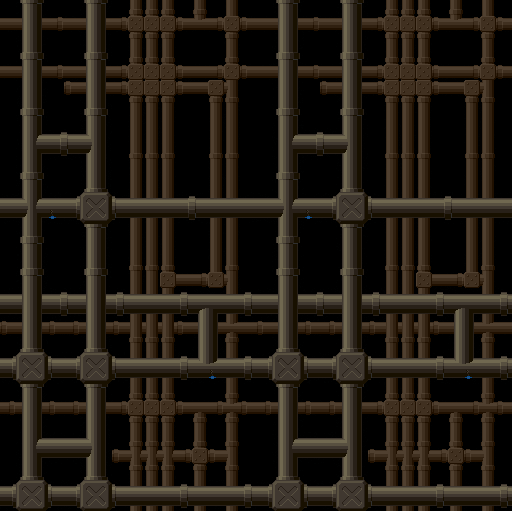
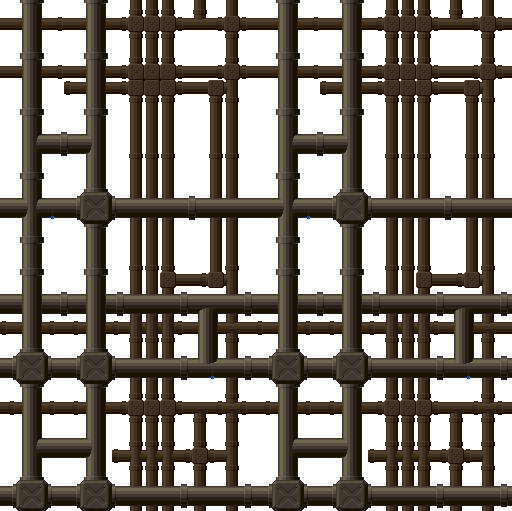
parallax back

diff --git a/javascripts/playstate.js b/javascripts/playstate.js
@@ -8,6 +8,7 @@ class PlayState extends Phaser.State {
         this.game.load.image('mario', `${dir}mario.png`);
         this.game.load.spritesheet('dude', `${dir}mariodude.png`, 21, 35);
         this.game.load.image('background', `${dir}background${Config.LEVEL}.png`);
+        this.game.load.image('background1_z0', `${dir}background2_z0.png`);
         this.game.load.spritesheet('coin', `${dir}coins2.png`, 16, 17);
         this.game.load.spritesheet('nuvem', `${dir}check.png`, 18, 18);
         this.game.load.spritesheet('planta', `${dir}planta.png`, 18, 18);
@@ -17,14 +18,15 @@ class PlayState extends Phaser.State {
         this.game.load.spritesheet('lava', `${dir}lava.png`, 16, 16);
         this.game.load.spritesheet('nextlevel', `${dir}nextlevel.png`, 24, 24);
         this.game.load.spritesheet('voador', `${dir}enemynuvem.png`, 28, 38);
-        this.game.load.spritesheet('bixos', `${dir}tartaruga.png`, 18, 16);
+        this.game.load.spritesheet('tartaruga', `${dir}tartaruga.png`, 18, 16);
 
         this.game.load.image('trophy', `${dir}trophy-200x64.png`);
     }
 
     createPlayer() {
 		if (Config.LEVEL==2){
-			this.player = new Player(this.game, this.keys, 5, 195, 'dude');
+			this.player = new Player(this.game, this.keys, 40, 3150, 'dude');
+            console.log("level 2")
 		}else{
 			this.player = new Player(this.game, this.keys, 5, 5, 'dude');
 		}
@@ -109,16 +111,11 @@ class PlayState extends Phaser.State {
         this.map.createFromObjects('Inimigos', 1365, 'voador', 0, true, false, this.voadores, Voador);
         this.voadores.forEach( (voador) => voador.start() ) 
 
-        this.bixos = this.game.add.group();
+/*        this.bixos = this.game.add.group();
         this.map.createFromObjects('Inimigos', 1365, 'tartaruga', 0, true, false, this.bixos, Tartaruga);
-        this.bixos.forEach( (tartaruga) => tartaruga.start() ) 
+        this.bixos.forEach( (tartaruga) => tartaruga.start() )*/ 
     }
 
-    createEnemies() {
-        this.bixos = this.game.add.group();
-        this.map.createFromObjects('Inimigos', 1365, 'tartaruga', 0, true, false, this.boxps, Tartaruga);
-        this.voadores.forEach( (voador) => voador.start() ) 
-    }
 
     cretateHud() {
         this.infoScore = this.game.add.text(16, 16, '', {fontSize: "16px", fill: '#ffffff'});
@@ -149,11 +146,19 @@ class PlayState extends Phaser.State {
         this.game.stage.backgroundColor = '#000000';
 
        // let bg = this.game.add.tileSprite(0, 0, Config.WIDTH, Config.HEIGHT, 'background');
-        let bg = this.game.add.tileSprite(0, 0, this.game.width, this.game.height, 'background');
+        this.bg2 = this.game.add.tileSprite(0, 0, this.game.width, this.game.height, 'background1_z0');
         //bg.tileScale.setTo(this.game.width/bg.width, this.game.height/bg.height);
-        bg.tileScale.setTo(0.75, 0.9);
-        bg.fixedToCamera = true;
+        this.bg2.tileScale.setTo(0.5, 0.5);
+        this.bg2.fixedToCamera = true;
+        this.bg2.tint = 0x222222
 
+         this.bg = this.game.add.tileSprite(0, 0, this.game.width, this.game.height, 'background');
+        //bg.tileScale.setTo(this.game.width/bg.width, this.game.height/bg.height);
+        this.bg.tileScale.setTo(1.2, 1.2);
+        this.bg.fixedToCamera = true;
+
+
+          
         this.keys = this.game.input.keyboard.createCursorKeys();
         this.game.physics.arcade.gravity.y = 550;
         this.score = 0;
@@ -170,14 +175,14 @@ class PlayState extends Phaser.State {
         pauseButton.onDown.add(this.pauseGame, this);
 
         this.createMap();
+        this.createCoins();
         this.createPlayer();
         this.createPlanta();
         this.createLava();
-        this.createEnemies();
         //this.createBala();
         this.createCanhao();
         this.createVida();
-        this.createCoins();
+        this.createEnemies();
         this.createChecks();
         this.createNextlevel();
         this.cretateHud();
@@ -243,6 +248,13 @@ class PlayState extends Phaser.State {
         this.game.physics.arcade.collide(this.player, this.voadores, this.playerDied, null, this);
 
        
+        this.bg.tilePosition.x = -this.game.camera.x/3
+        this.bg.tilePosition.y = -this.game.camera.y/2    
+        
+        this.bg2.tilePosition.x = -this.game.camera.x/6
+        this.bg2.tilePosition.y = -this.game.camera.y/4
+
+
     }
 
     destroiBala(bala){

diff --git a/javascripts/tartaruga.js b/javascripts/tartaruga.js
@@ -1,0 +1,26 @@
+class Tartaruga extends Phaser.Sprite {
+    constructor(game, x, y, asset) {
+        super(game, x, y, asset)
+        this.game.physics.arcade.enable(this)
+        this.body.allowGravity = false
+        this.autoCull = true
+        this.body.setSize(25, 14, 3, 15)
+        this.body.immovable = false // kinematic
+
+        this.scale.setTo(1.3, 1.3)
+
+        this.animations.add('move', [0,1,2], 5  , true)
+        this.animations.play('move')
+    }
+
+    start() {
+        // correcao do problema de ancora do TILED
+        this.targetY -= this.height
+
+        let tweenA = this.game.add.tween(this)
+            .to( { x: this.targetX, y: this.targetY }, 3000, Phaser.e )
+            .to( { x: this.x, y: this.y }, 3000, "Quart.easeInOut" )
+            .loop(-1)
+            .start()
+    }
+}

diff --git a/javascripts/screens.js b/javascripts/screens.js
@@ -56,7 +56,7 @@ class TitleState extends GameState {
         // preparar o jogo
         // reset de highscore e controle de carregamento de estado do servidor
         Config.SCORE = 0
-        Config.LEVEL = 1
+        Config.LEVEL = 2
 
         // evitar bug de levar o callback para outra tela (state)
         this.game.camera.onFadeComplete.removeAll(this)

diff --git a/javascripts/config.js b/javascripts/config.js
@@ -7,7 +7,7 @@ Config.CONTAINER_WIDTH  = Config.CONTAINER_HEIGHT * Config.RATIO
 Config.DEBUG = false
 Config.ANTIALIAS = false
 Config.ASSETS = 'assets/'
-Config.LEVEL = 1
+Config.LEVEL = 2
 Config.SCORE = 0
 Config.VIDAS = 3
 Config.SCREENSHOTS= [];
